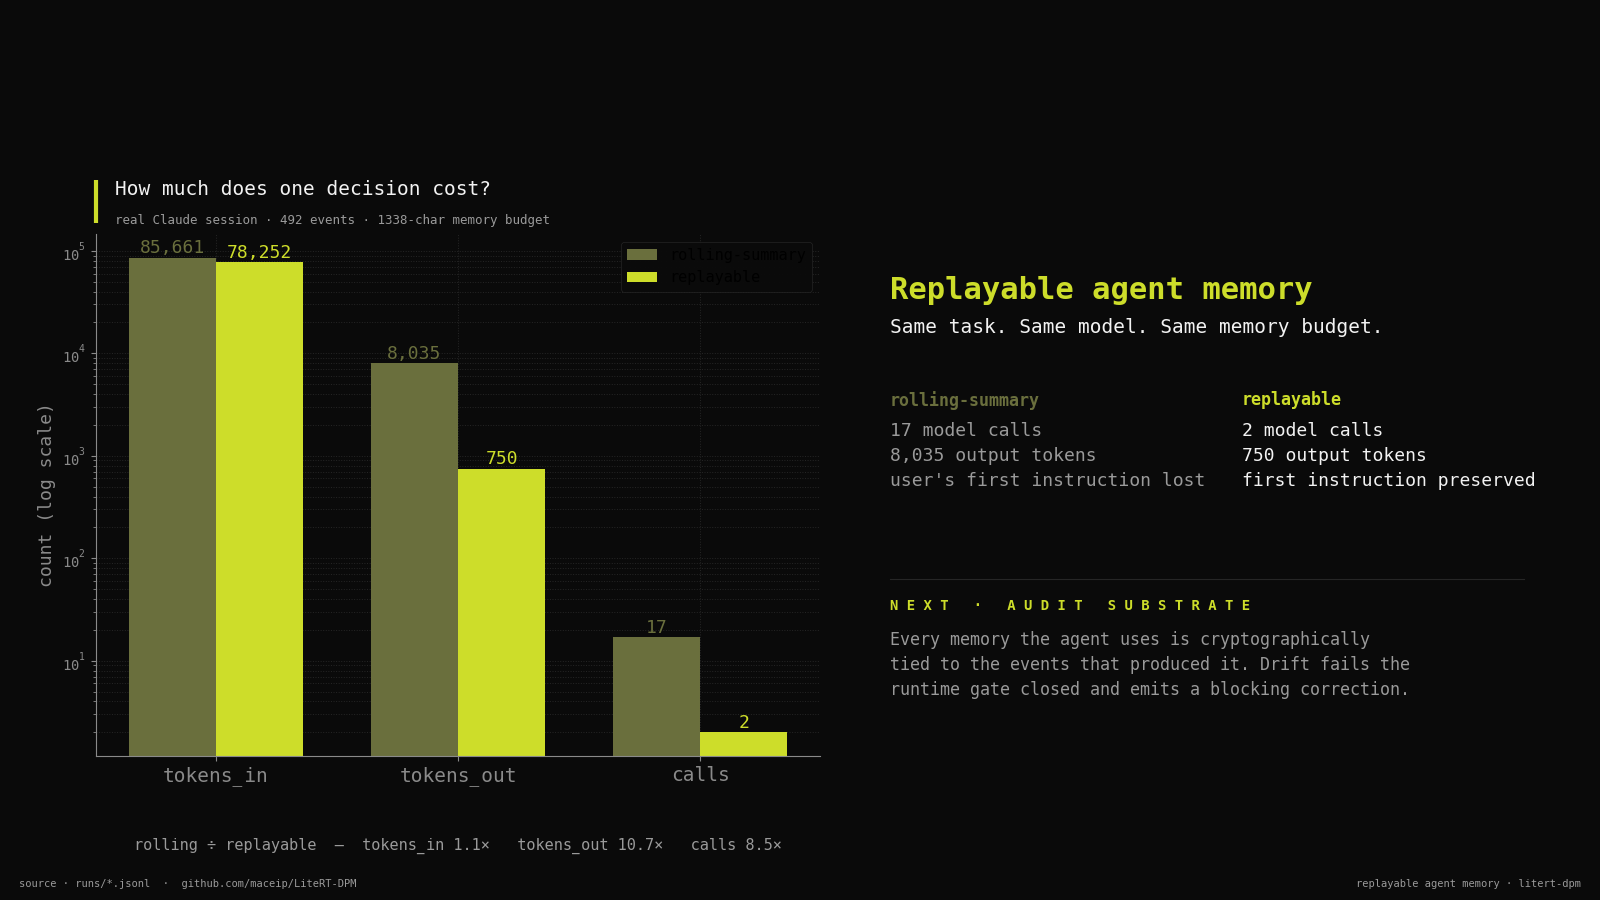
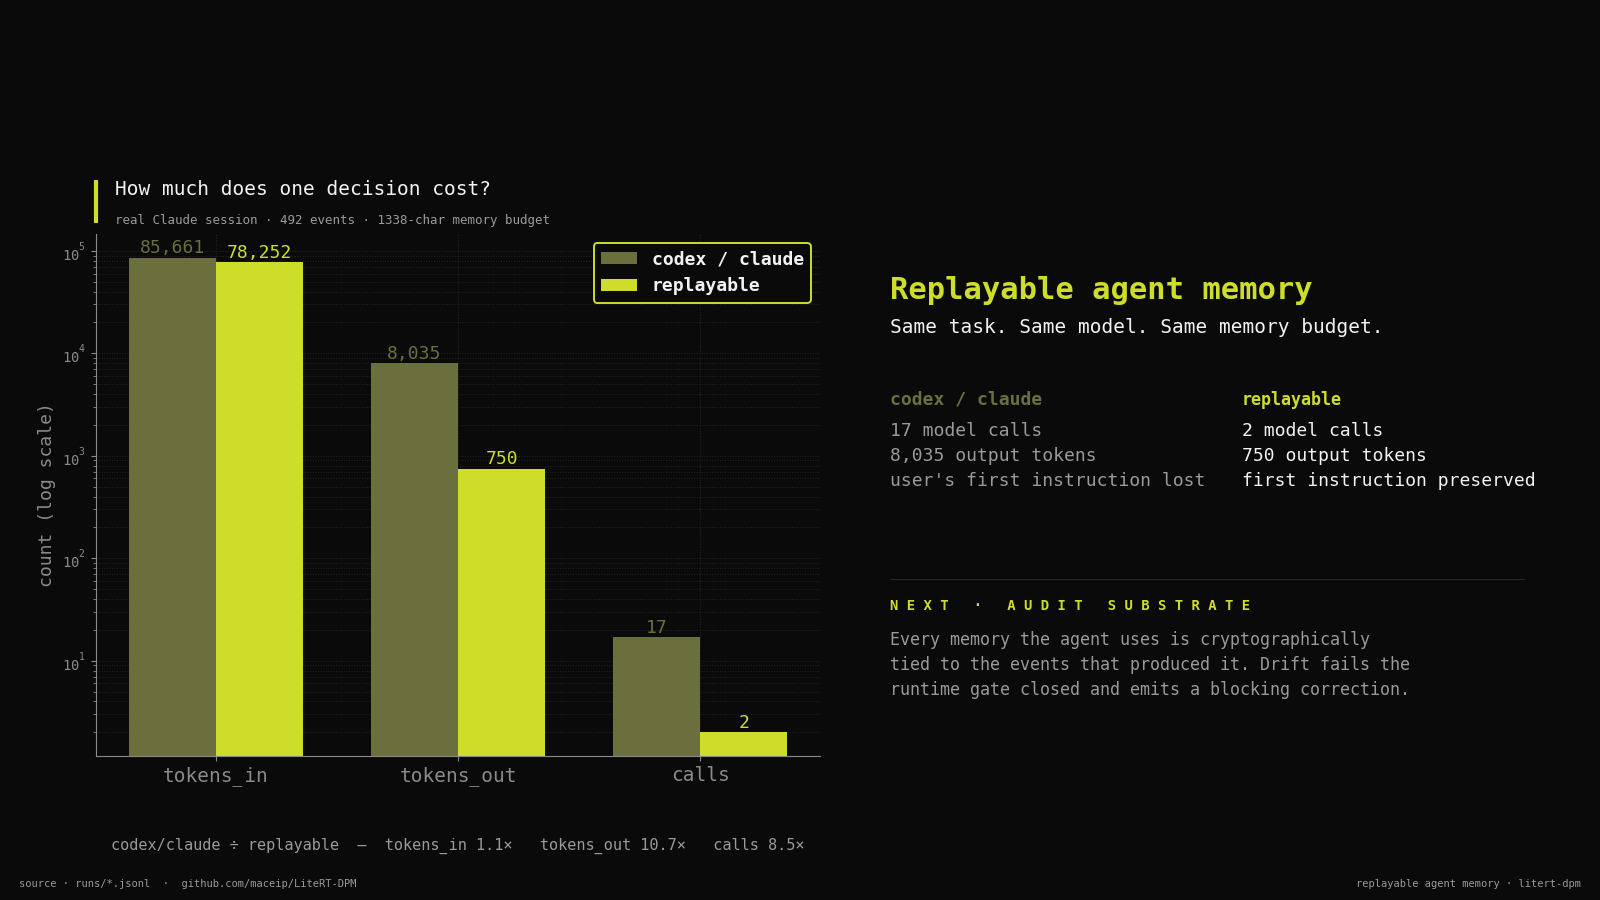
[bench/charts] twitter_combined — rename rolling-summary -> codex/claude; legend pops with lime border + bold white text

Changed region(s): [[0.0625, 0.9333, 0.5, 0.9644], [0.375, 0.2489, 0.5, 0.3422], [0.5625, 0.4356, 0.6562, 0.4667]]

diff --git a/tools/benchmarks/dpm_projection_cliff/runs/render_charts.py b/tools/benchmarks/dpm_projection_cliff/runs/render_charts.py
@@ -341,7 +341,7 @@ def _render_twitter_combined(rows: list[ScoreRow], out: Path,
     x = list(range(len(metrics)))
     width = 0.36
     barRL = axL.bar([i - width/2 for i in x], rolling_costs, width=width,
-                     label="rolling-summary", color=COLOR_ROLLING)
+                     label="codex / claude", color=COLOR_ROLLING)
     barDL = axL.bar([i + width/2 for i in x], dpm_costs, width=width,
                      label="replayable", color=COLOR_REPLAYABLE)
     axL.set_xticks(x)
@@ -361,13 +361,16 @@ def _render_twitter_combined(rows: list[ScoreRow], out: Path,
     ]
     if ratios:
         axL.text(0.5, -0.18,
-                  "rolling ÷ replayable  —  " + "   ".join(ratios),
+                  "codex/claude ÷ replayable  —  " + "   ".join(ratios),
                   ha="center", fontsize=11, color=COLOR_MUTED,
                   transform=axL.transAxes, fontfamily=fonts["body"])
-    legL = axL.legend(loc="upper right", framealpha=0.95, frameon=True,
-                       edgecolor=COLOR_GRID,
-                       prop={"family": fonts["body"], "size": 11})
-    legL.get_frame().set_linewidth(0.5)
+    legL = axL.legend(loc="upper right", framealpha=1.0, frameon=True,
+                       edgecolor=COLOR_REPLAYABLE,
+                       facecolor="#0a0a0a",
+                       labelcolor=COLOR_TITLE,
+                       prop={"family": fonts["body"], "size": 13,
+                             "weight": "bold"})
+    legL.get_frame().set_linewidth(1.4)
     axL.grid(axis="y", which="both", color=COLOR_GRID, linestyle=":",
               linewidth=0.7)
 
@@ -391,8 +394,8 @@ def _render_twitter_combined(rows: list[ScoreRow], out: Path,
               transform=axR.transAxes, va="top")
 
     # Two-column data restatement
-    axR.text(0.04, 0.70, "rolling-summary",
-              fontsize=12, color=COLOR_ROLLING,
+    axR.text(0.04, 0.70, "codex / claude",
+              fontsize=13, color=COLOR_ROLLING,
               fontfamily=fonts["body"], fontweight="bold",
               transform=axR.transAxes, va="top")
     axR.text(0.04, 0.64,